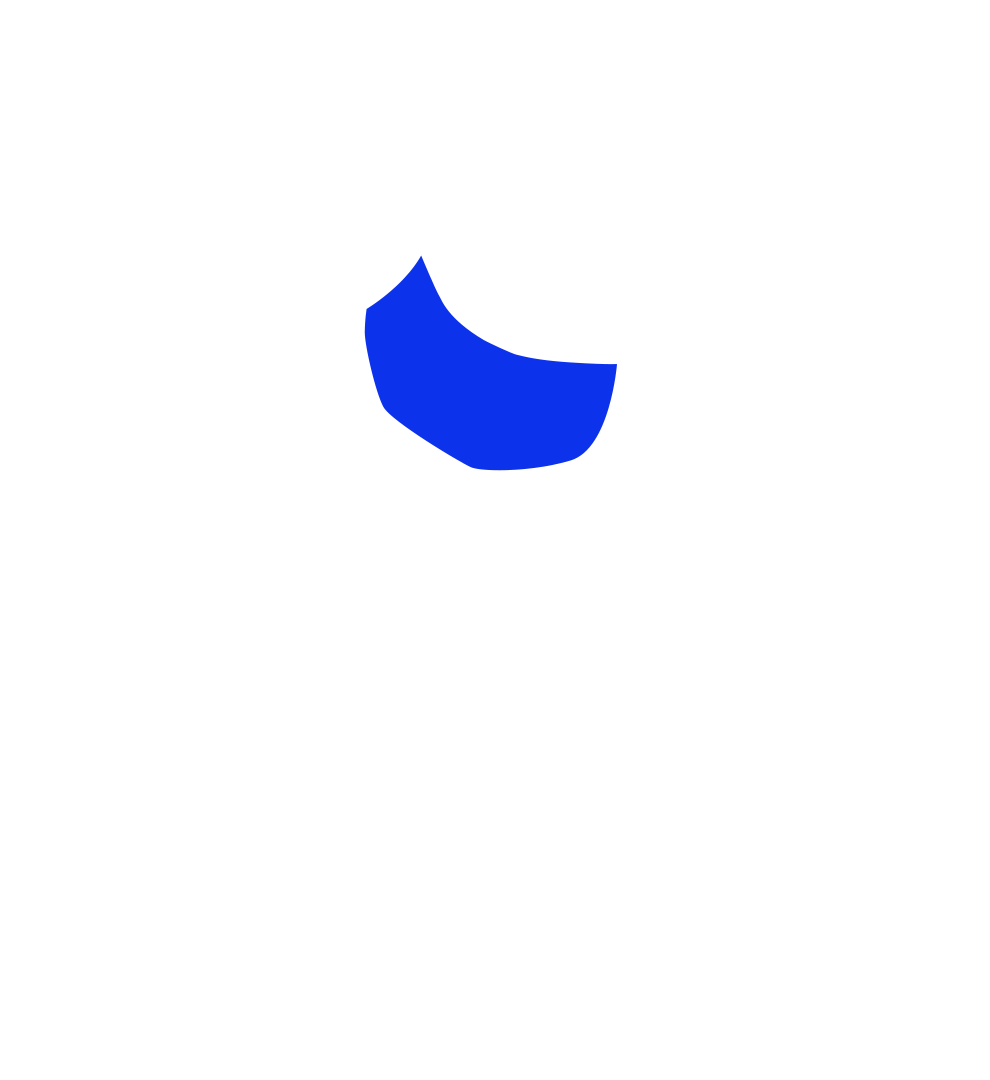
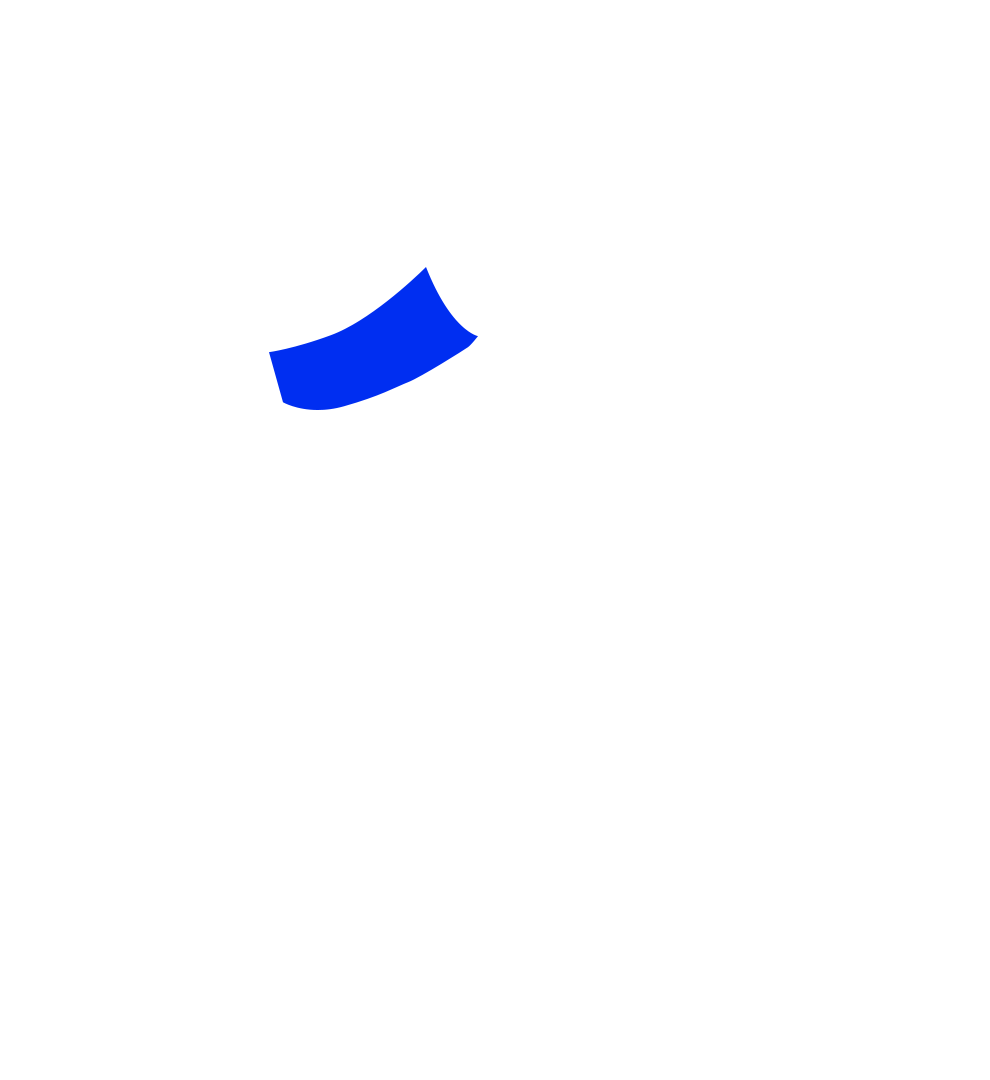
layout perro

Changed region(s): [[0.2727, 0.275, 0.6364, 0.4583], [0.3939, 0.2444, 0.4242, 0.275]]

diff --git a/components/Perro3D.tsx b/components/Perro3D.tsx
@@ -5,10 +5,14 @@ import Image from "next/image"
 
 const bodyParts = [
   { id: 'cuello',       src: '/img/perro3d/cuello.png',       label: 'Cuello' },
+  { id: 'espalda',      src: '/img/perro3d/espalda.png',      label: 'Espalda' },
+  { id: 'cadera',       src: '/img/perro3d/cadera.png',       label: 'Cadera' },
   { id: 'hombro',       src: '/img/perro3d/hombro.png',       label: 'Hombro' },
-  { id: 'nalgas',       src: '/img/perro3d/nalgas.png',       label: 'Nalgas' },
+  { id: 'codo',         src: '/img/perro3d/codo.png',         label: 'Codo' },
+  { id: 'rodilla',      src: '/img/perro3d/rodilla.png',      label: 'Rodilla' },
   { id: 'pata_front',   src: '/img/perro3d/pata_front.png',   label: 'Pata frontal' },
-  { id: 'rodilla_back', src: '/img/perro3d/rodilla_back.png', label: 'Rodilla trasera' },
+  { id: 'pata_back',    src: '/img/perro3d/pata_back.png',    label: 'Pata trasera' },
+  
 ]
 
 const IMG_W = 990
